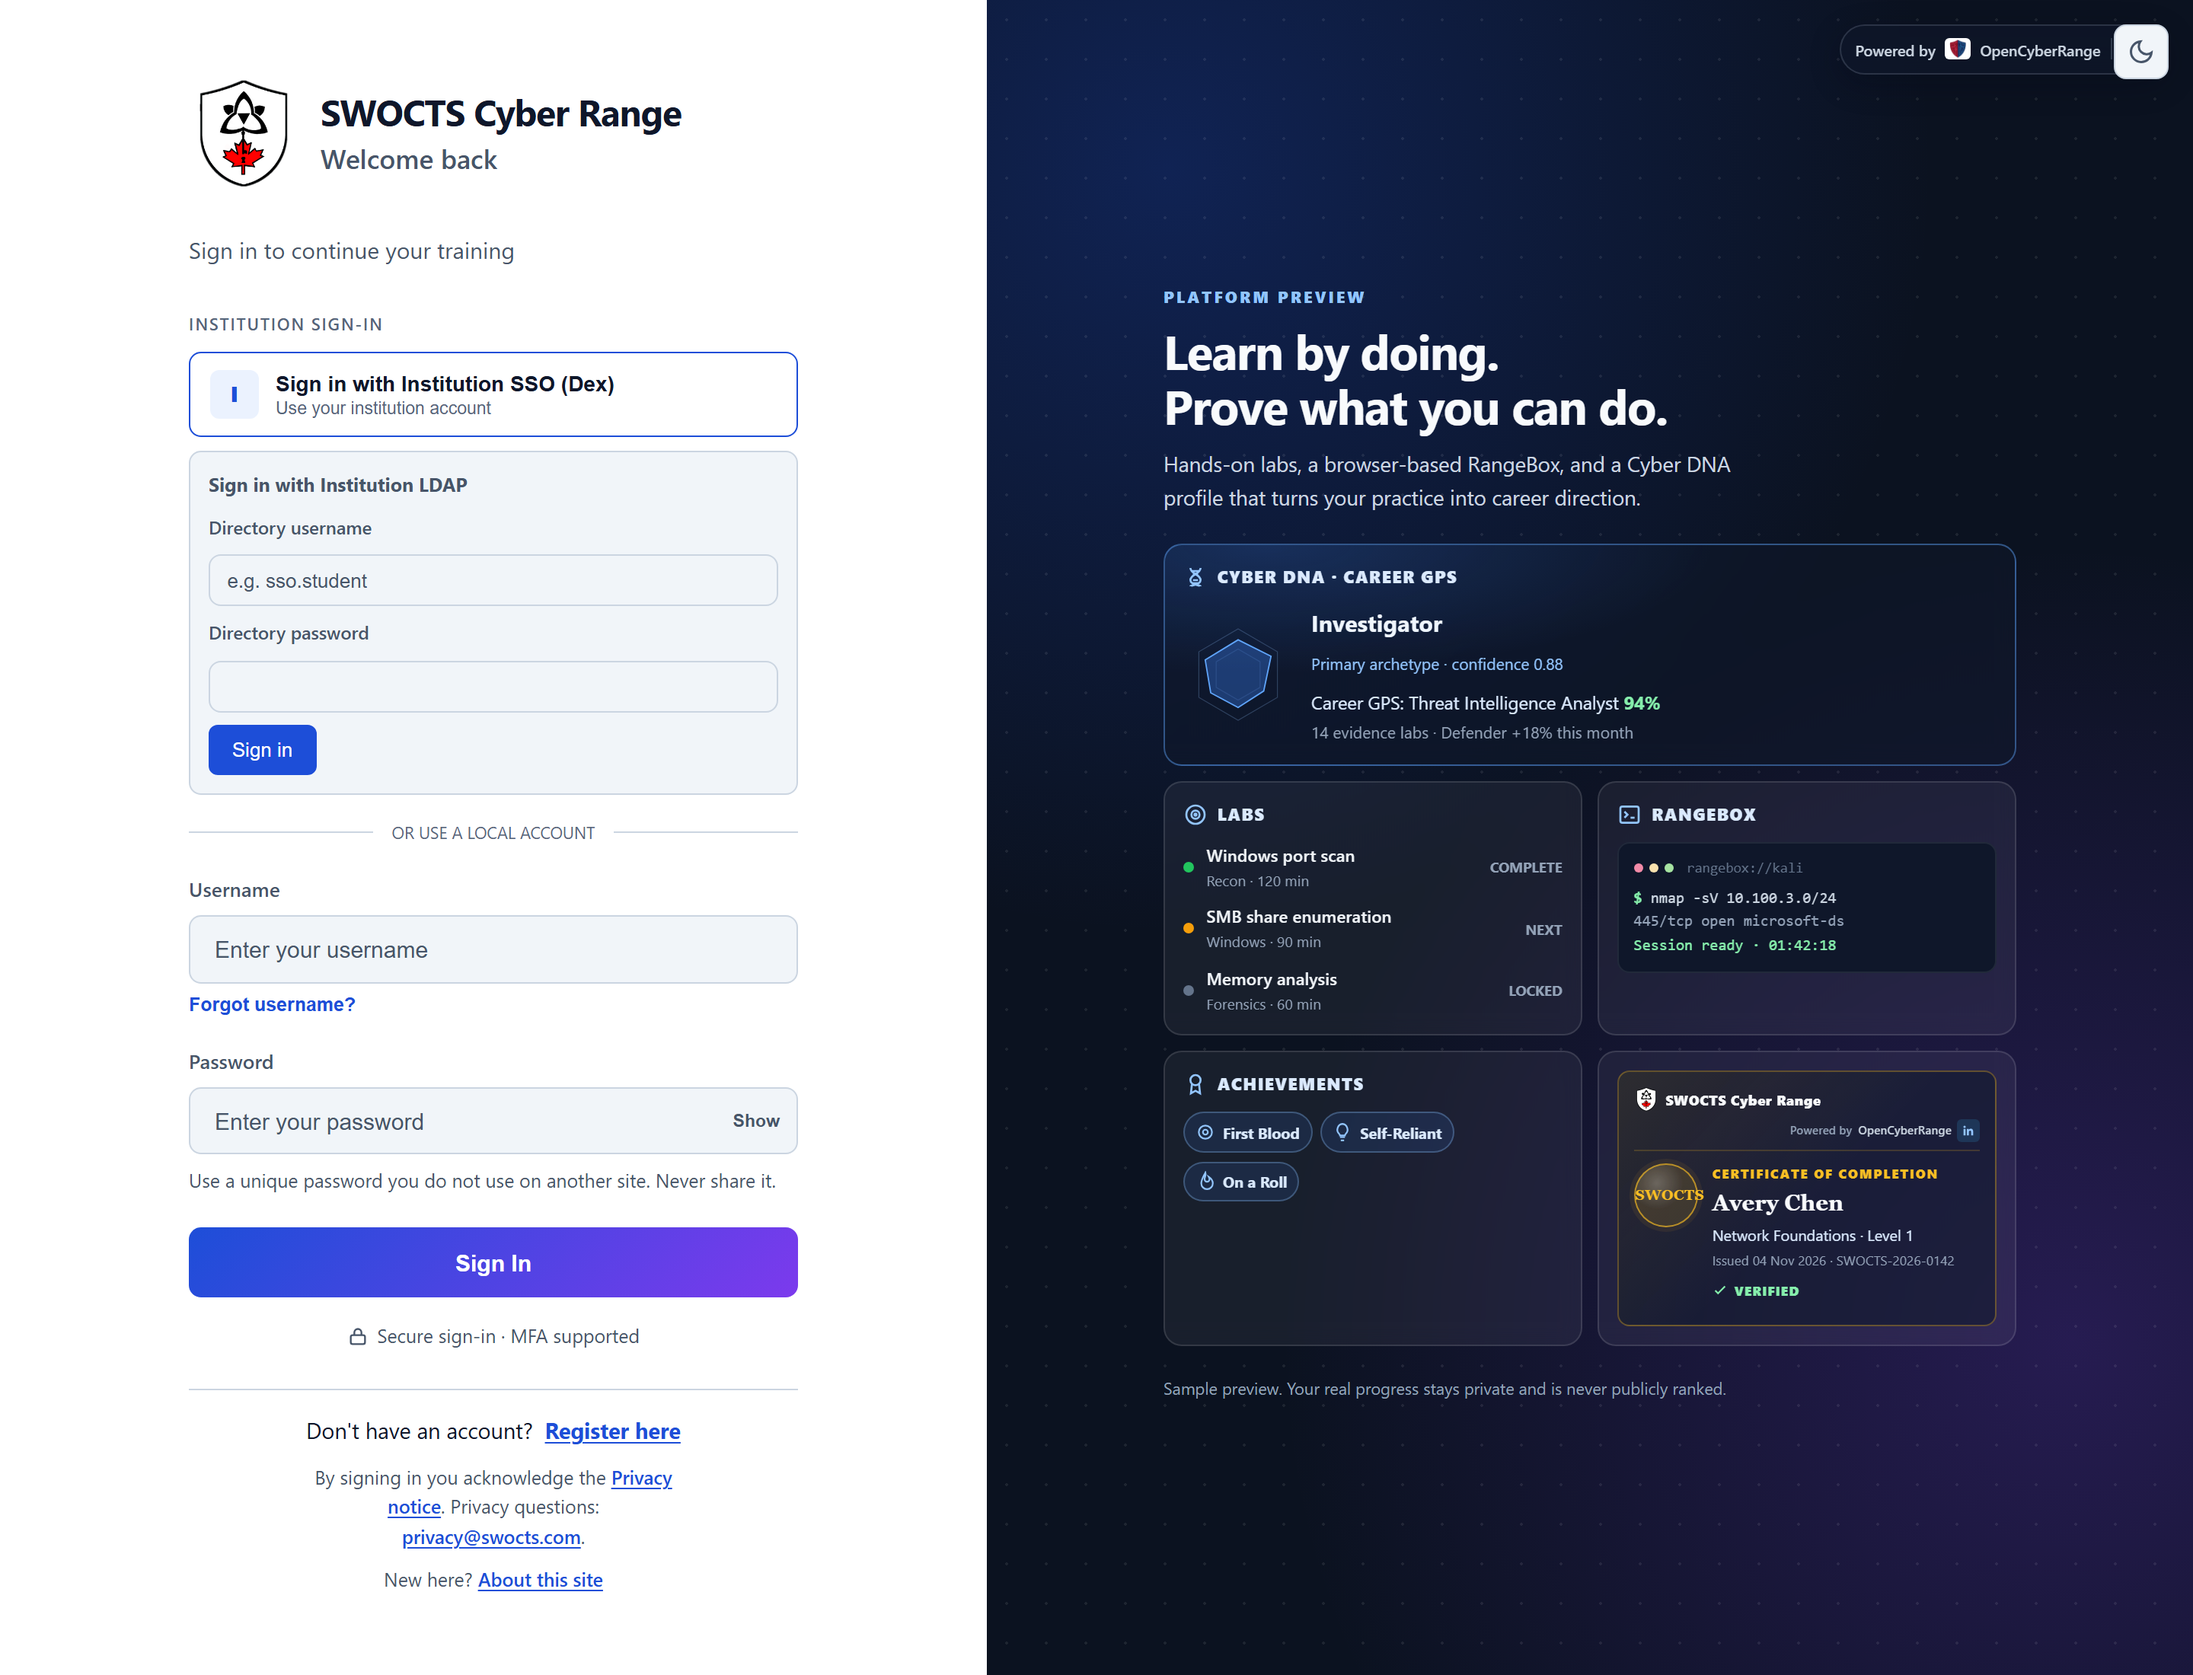
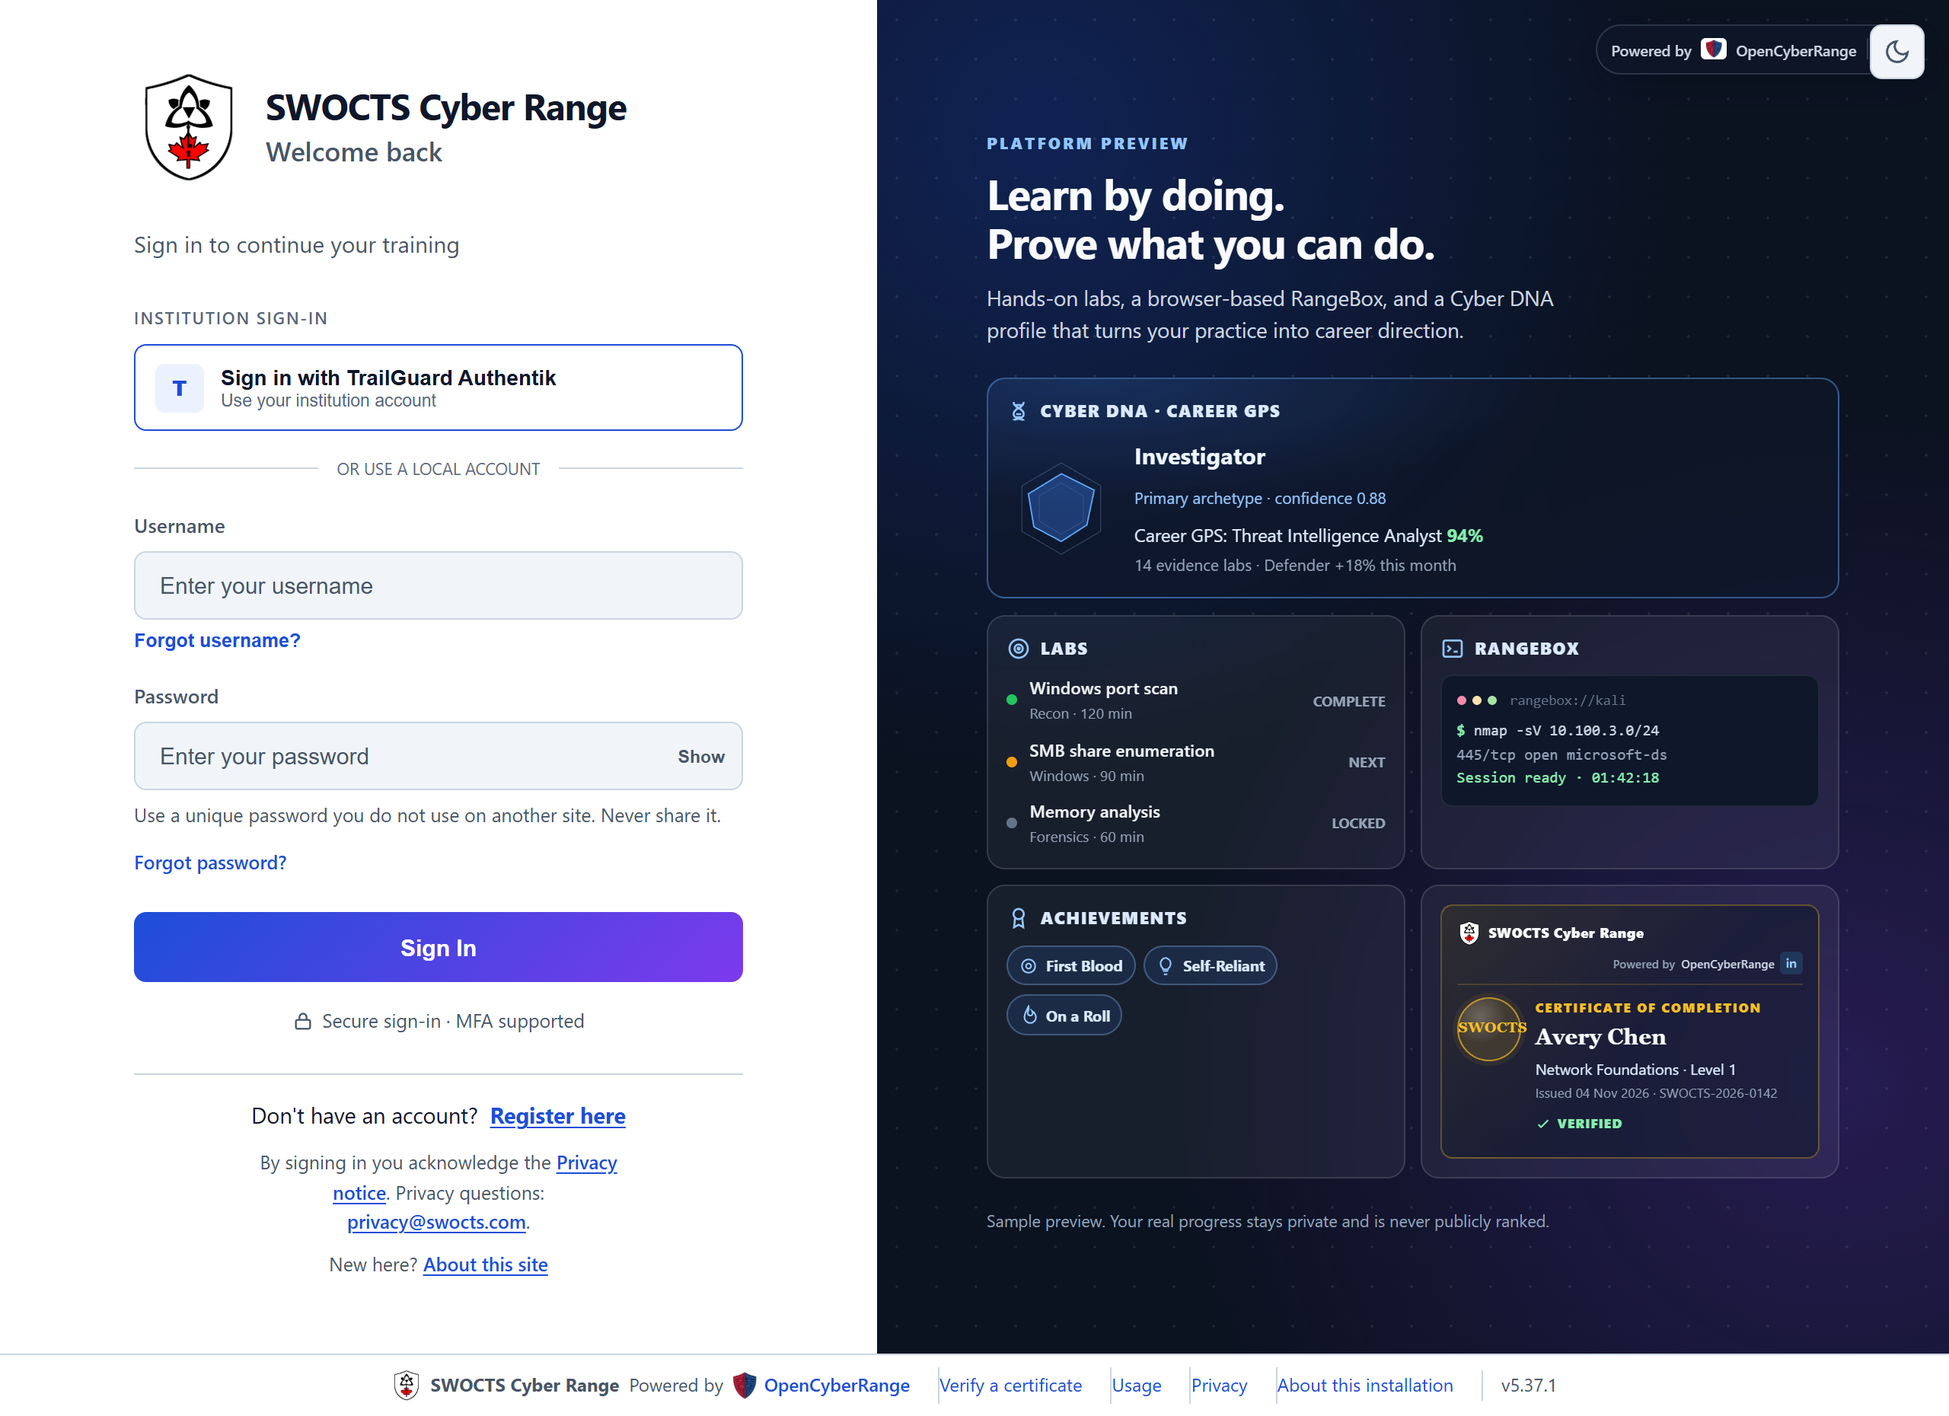
docs: refresh login and registration screenshots
Replace the stale Dex/LDAP login image with the current Authentik SSO page and update the registration image and steps for the optional name fields, age group, and privacy acknowledgement. No real learner data is shown.

diff --git a/Manual-Lite/01_Getting_Started/04_Registering_an_Account.md b/Manual-Lite/01_Getting_Started/04_Registering_an_Account.md
@@ -25,9 +25,13 @@ flowchart TB
 1. Go to the login page and click **Register here**, or open `/register` directly.
 2. Enter your **Username**. It must start with a letter and may contain letters, numbers, underscores, and hyphens, between 3 and 50 characters.
 3. Enter your **Email** address.
-4. Enter a **Password**. The help text reads: must be at least 8 characters and contain uppercase, lowercase, and a number. The form checks each field as you leave it.
-5. Re-enter the same password in **Confirm Password**.
-6. Click **Create Account**.
+4. Leave **Email me a registration confirmation** unchecked unless you want a receipt. This is optional and is not account verification.
+5. Optionally enter a **First name** and **Last name**. They appear on completion certificates and can be changed later in your profile.
+6. Enter a **Password**. The help text reads: must be at least 8 characters and contain uppercase, lowercase, and a number. The form checks each field as you leave it.
+7. Re-enter the same password in **Confirm Password**.
+8. Select your **Age group**. This sets the privacy defaults; the platform does not collect your date of birth.
+9. Check the **Privacy notice** acknowledgement. If you are under 13, an instructor must record a parent or guardian consent reference before an institution-managed account is created.
+10. Click **Create Account**.
 
 **What you should see:** a success message that reads, "Account created successfully! Your account is pending administrator approval. You will be able to log in once approved." The page then sends you back to the login screen after a few seconds.
 
@@ -35,7 +39,7 @@ flowchart TB
 
 ![The registration form with username, email, password, and confirm password fields](img/register.png)
 
-<figcaption>The registration form collects a username, email, and password; there is no invite code or verification step.</figcaption>
+<figcaption>The registration form collects a username, email, password, age group, and privacy acknowledgement; names are optional and there is no invite code or email-verification step.</figcaption>
 </figure>
 
 ## Approval (on by default)

diff --git a/Manual-Lite/01_Getting_Started/05_Logging_In.md b/Manual-Lite/01_Getting_Started/05_Logging_In.md
@@ -21,7 +21,7 @@ Logging in opens your session on the platform. You enter your username and passw
 
 ![The login screen with the institution sign-in panel and username and password fields](img/login.png)
 
-<figcaption>The login page keeps the local form and adds institution sign-in when SSO is enabled.</figcaption>
+<figcaption>Institution sign-in appears above the local username and password form when SSO is enabled.</figcaption>
 </figure>
 
 ## Institution sign-in (SSO)
